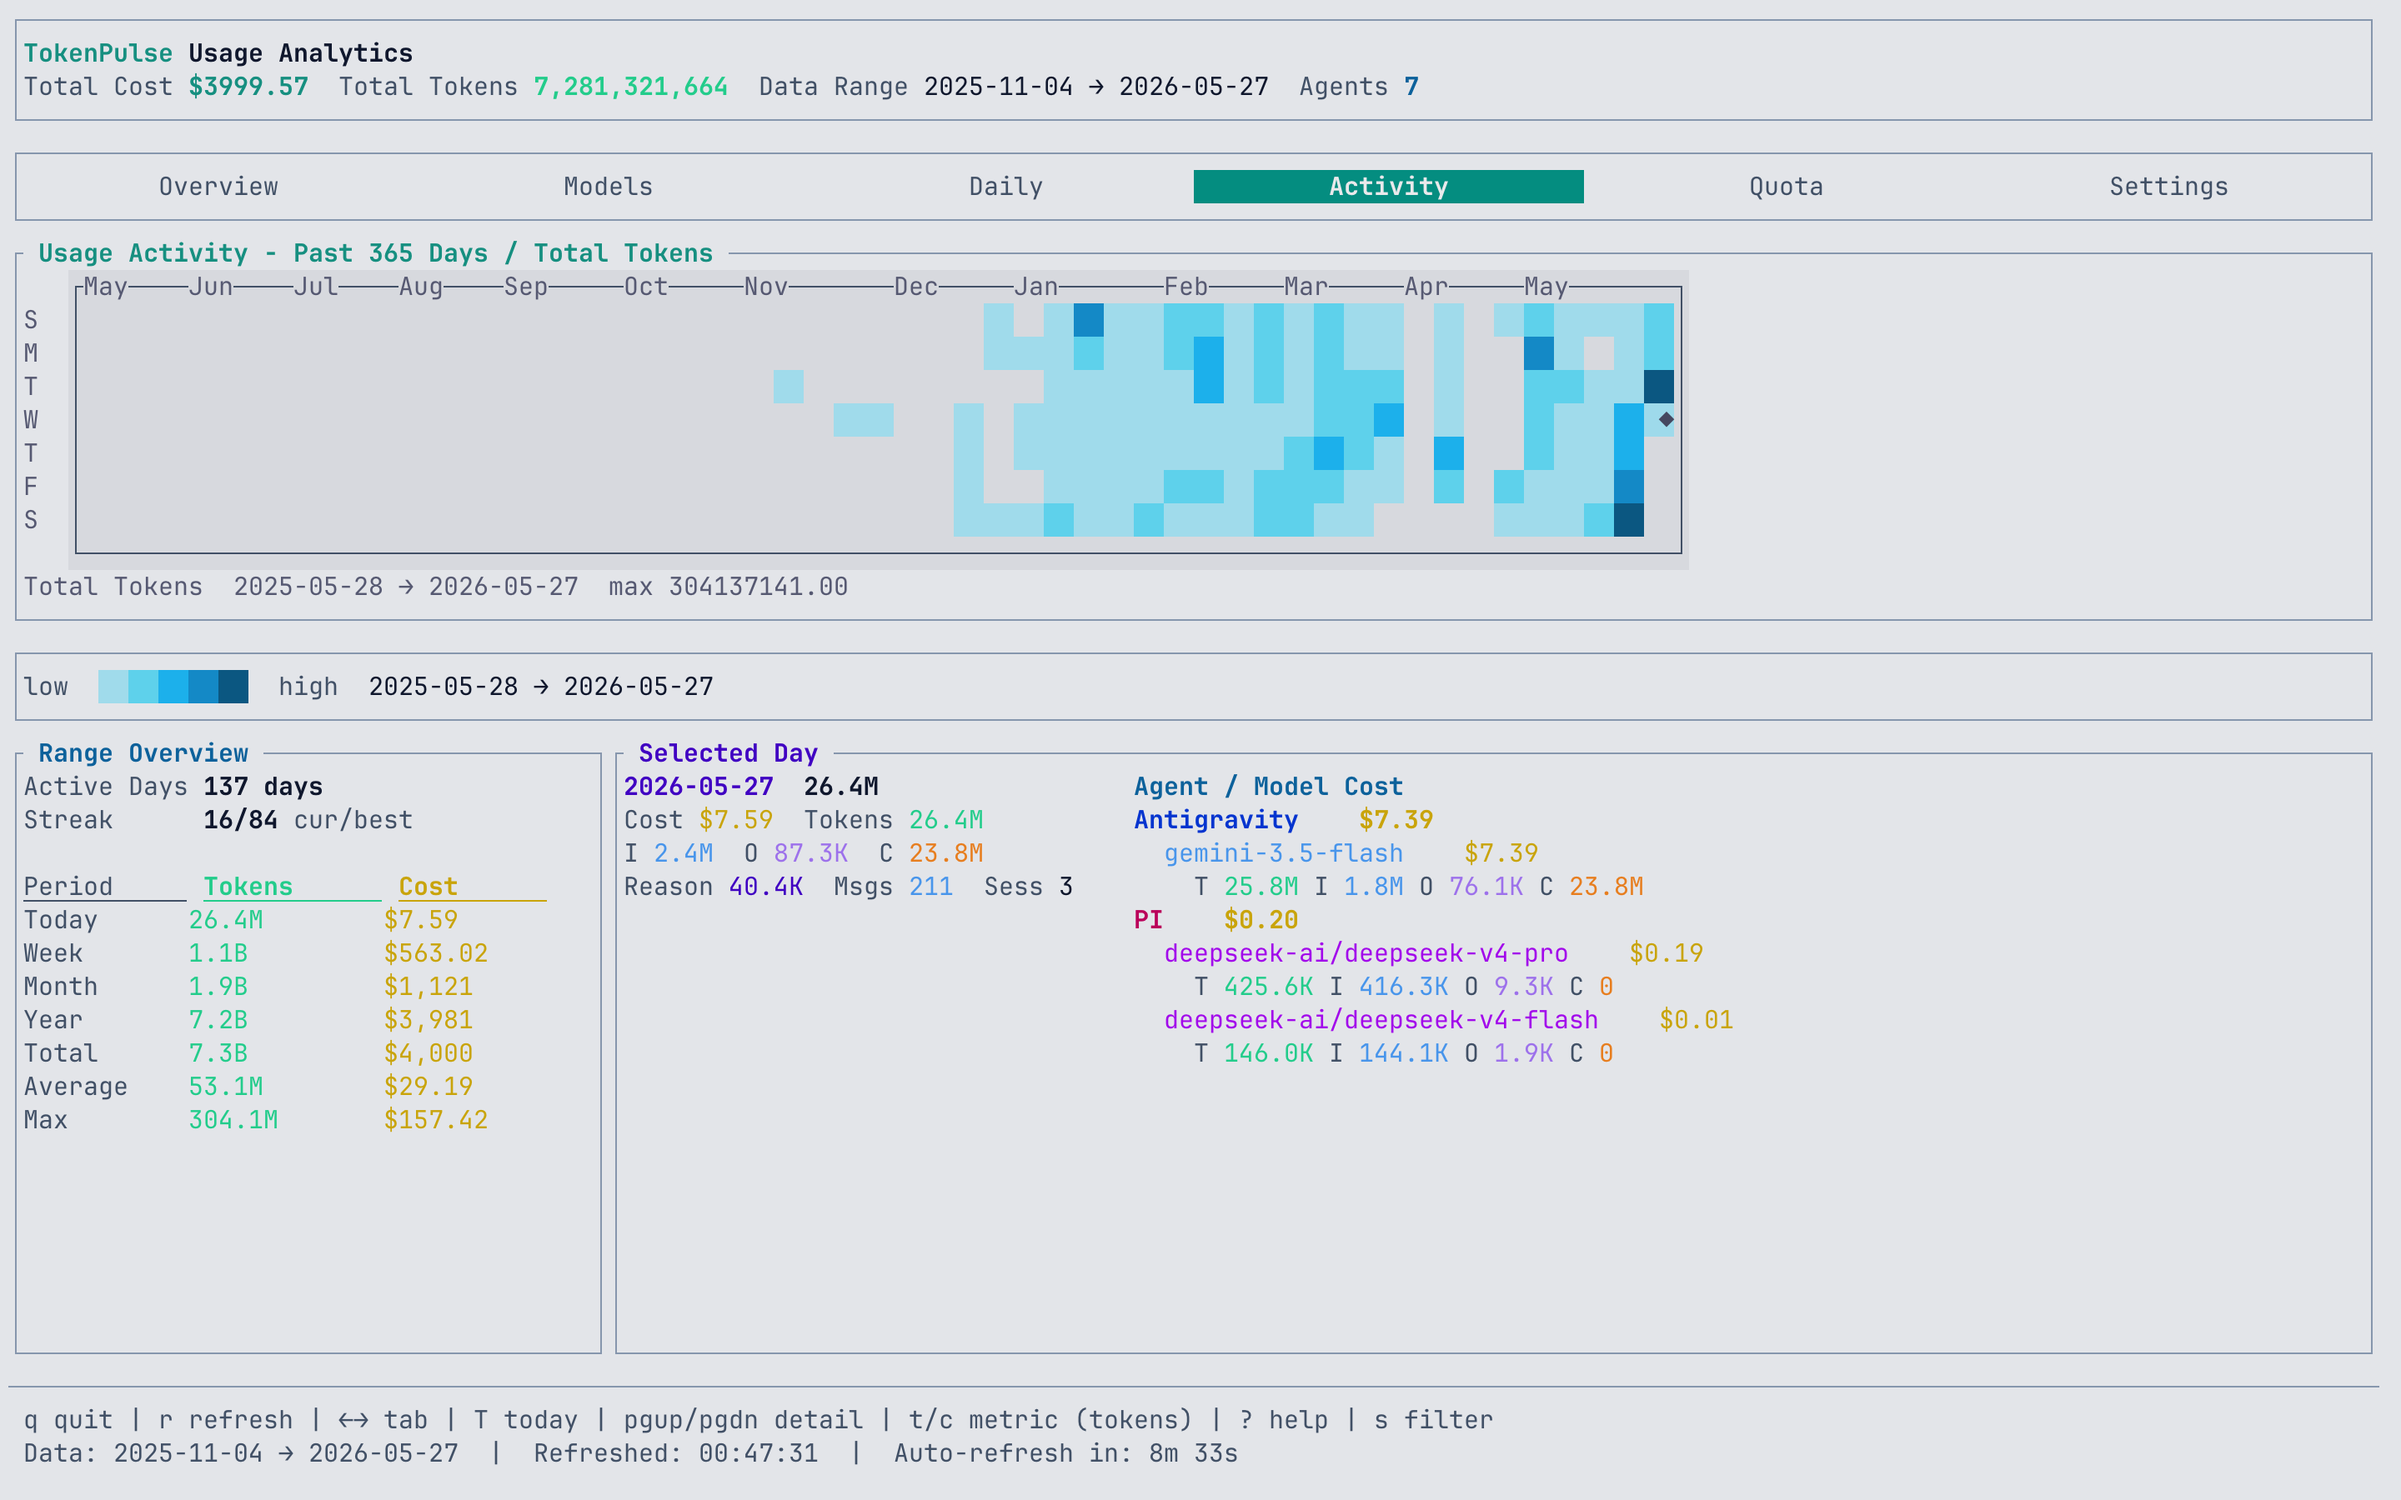
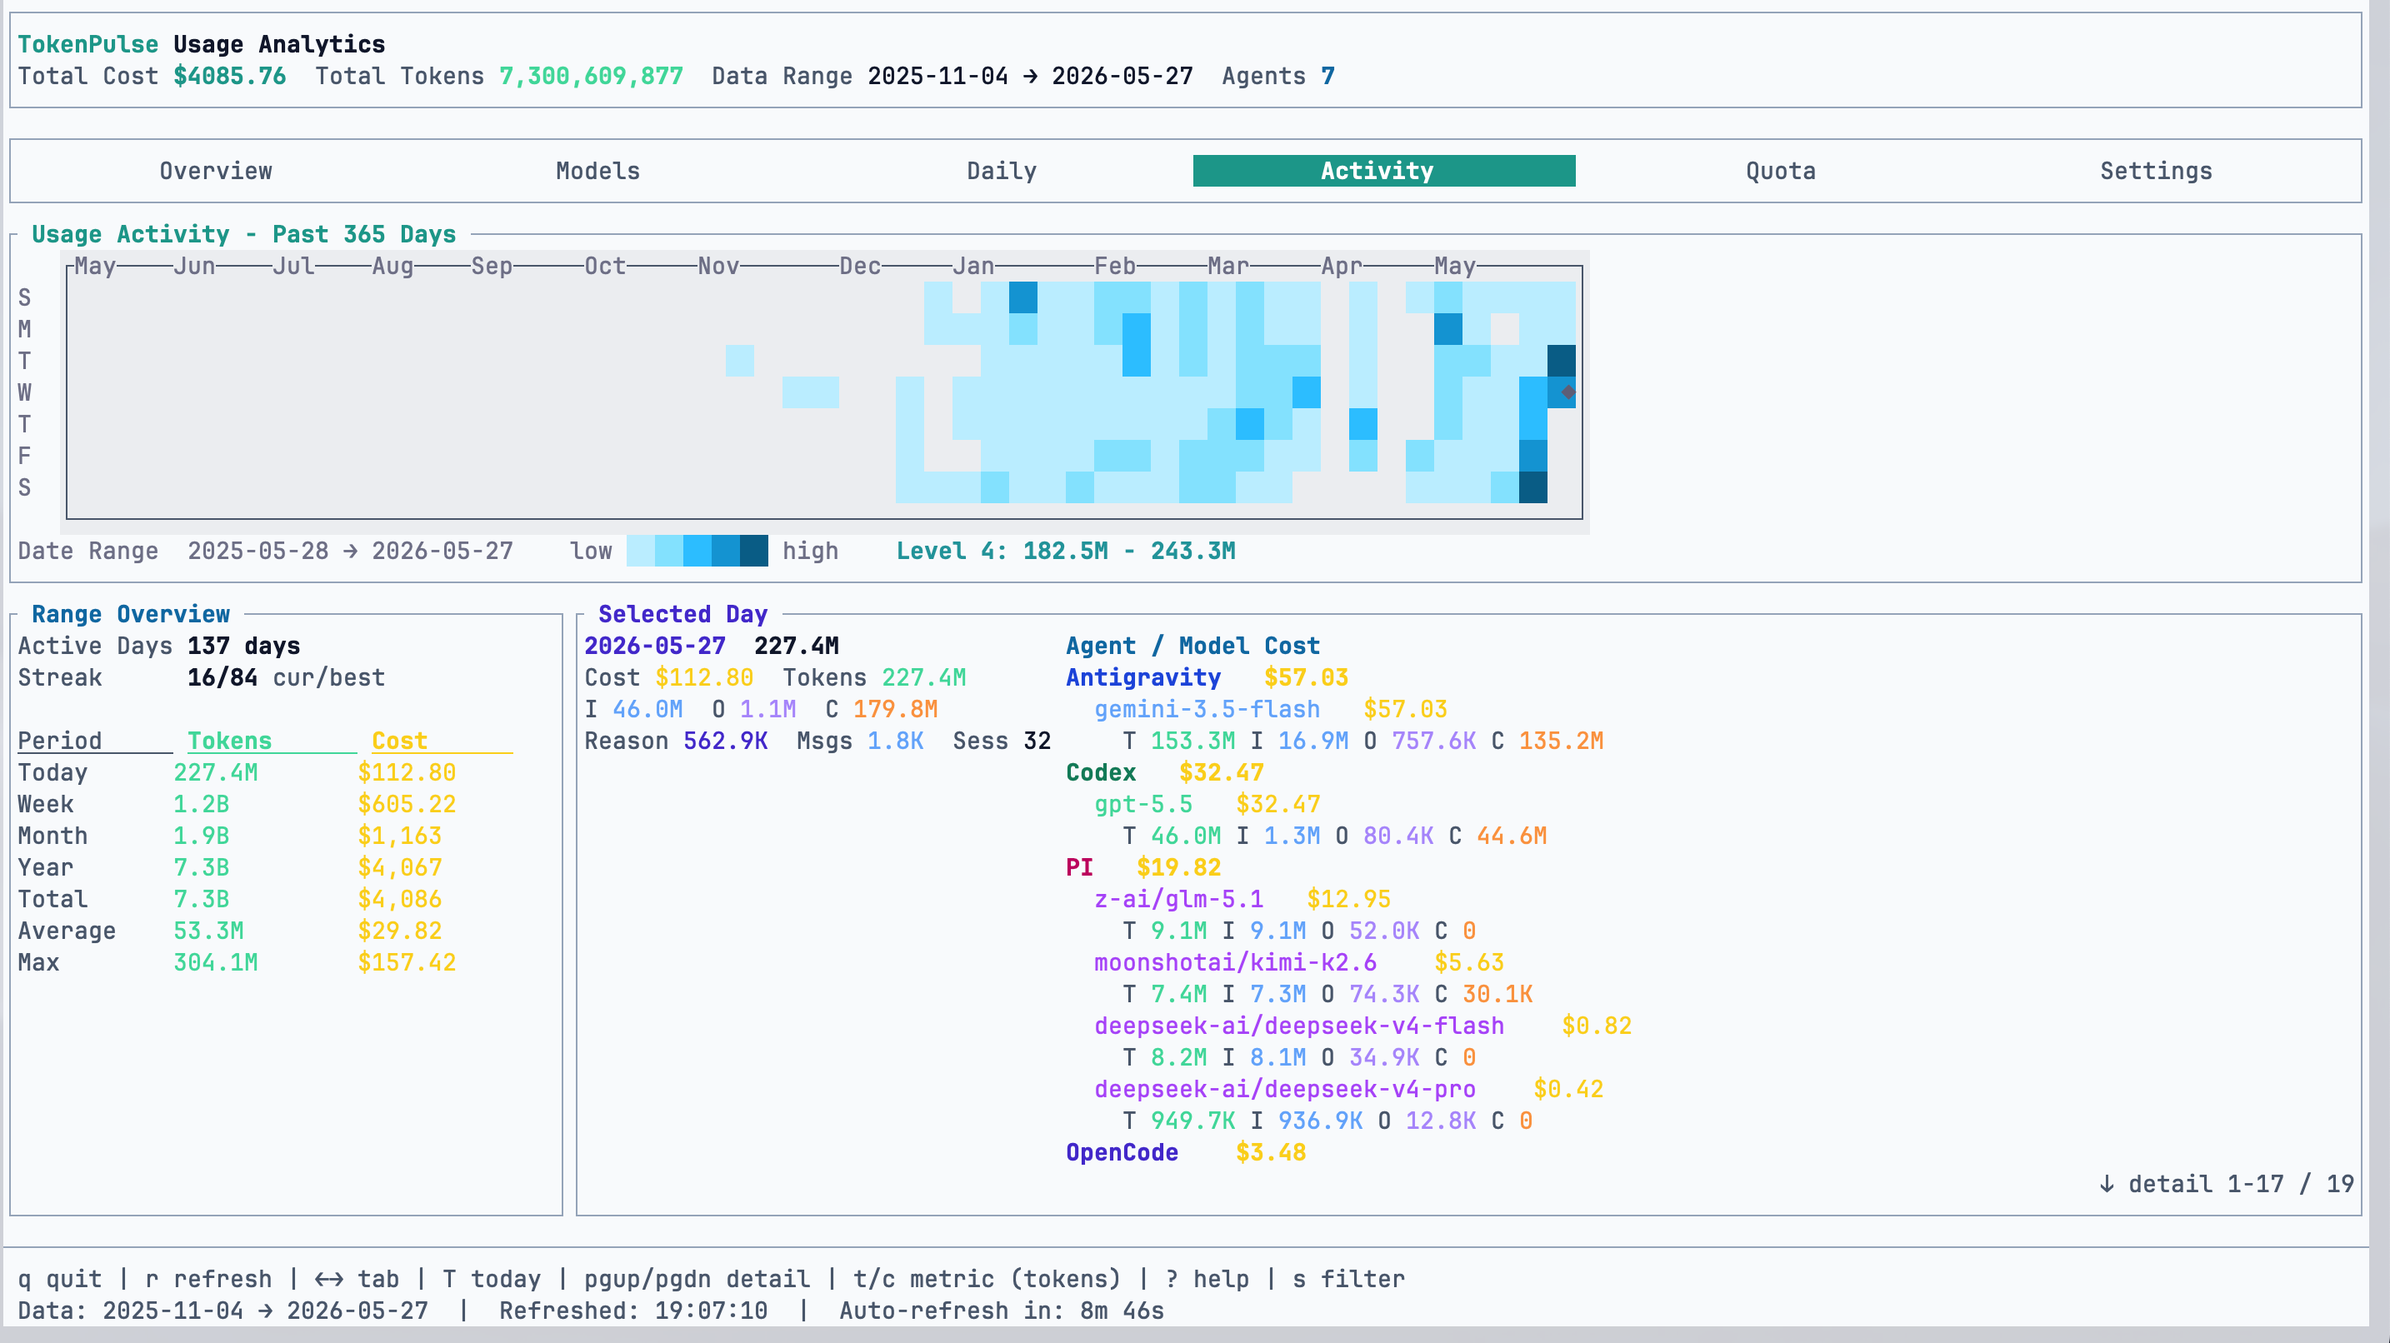
refactor(heatmap): inline legend into widget footer, remove separate legend section
- Merge the heatmap legend bar into the YearHeatmap widget's footer row
  instead of rendering it as a separate section (saves 3 rows of vertical space)
- Remove heatmap_legend_line(), heatmap_bucket_range_label(), and related
  layout helpers (legend_inner_area, blocks_start, bucket_width)
- Add selected_bucket field to YearHeatmap for inline bucket range display
- Remove heatmap_scale from public widgets API
- Update activity.png to match the new layout

diff --git a/tokenpulse-cli/src/tui/views/usage/heatmap.rs b/tokenpulse-cli/src/tui/views/usage/heatmap.rs
@@ -4,7 +4,7 @@ use super::{
 };
 use crate::tui::theme::Theme;
 use crate::tui::widgets::{
-    date_at_position, heatmap_scale, HeatmapMetric, HeatmapScale, YearHeatmap,
+    date_at_position, HeatmapMetric, YearHeatmap,
 };
 use chrono::{Datelike, Duration, Local, NaiveDate};
 use ratatui::{
@@ -15,10 +15,6 @@ use ratatui::{
 };
 use std::collections::BTreeSet;
 
-const HEATMAP_LEGEND_LOW_LABEL: &str = "low";
-const HEATMAP_LEGEND_HIGH_LABEL: &str = "high";
-const HEATMAP_LEGEND_GAP: &str = "  ";
-const HEATMAP_LEGEND_CELL: &str = "██";
 const HEATMAP_LEGEND_BUCKETS: usize = 5;
 
 pub fn render_heatmap_page(
@@ -35,10 +31,7 @@ pub fn render_heatmap_page(
     let sections = heatmap_sections(area);
 
     // Heatmap grid
-    let heat_title = format!(
-        " Usage Activity - Past 365 Days / {} ",
-        state.heatmap_metric.label()
-    );
+    let heat_title = " Usage Activity - Past 365 Days ";
     let heat_block = Block::default()
         .title(Span::styled(
             heat_title,
@@ -51,7 +44,6 @@ pub fn render_heatmap_page(
 
     let palette = heatmap_palette(theme, state.heatmap_metric);
     let points = dashboard.points_in_fixed_window(state.heatmap_metric, &state.enabled_sources);
-    let scale = heatmap_scale(&points, heat_inner, bounds);
     if points.is_empty() {
         f.render_widget(
             Paragraph::new(empty_data_message(state, "No activity data"))
@@ -65,31 +57,13 @@ pub fn render_heatmap_page(
             .background(theme.heatmap_bg)
             .border(Some(theme.heatmap_border))
             .selected(selected_day.as_ref().map(|day| day.date))
+            .selected_bucket(state.selected_heatmap_legend_bucket)
             .range_opt(bounds);
         f.render_widget(heatmap, heat_inner);
     }
 
-    // Legend bar
-    let range_label = bounds
-        .map(|(s, e)| format!("{} → {}", s.format("%Y-%m-%d"), e.format("%Y-%m-%d")))
-        .unwrap_or_else(|| "no range".to_string());
-    let legend = Paragraph::new(heatmap_legend_line(
-        palette,
-        theme,
-        range_label,
-        state.heatmap_metric,
-        scale,
-        state.selected_heatmap_legend_bucket,
-    ))
-    .block(
-        Block::default()
-            .borders(Borders::ALL)
-            .border_style(Style::default().fg(theme.border)),
-    );
-    f.render_widget(legend, sections[1]);
-
     // Bottom panels: range summary and selected day detail
-    let info = heatmap_info_sections(sections[2]);
+    let info = heatmap_info_sections(sections[1]);
 
     render_heatmap_summary_card(f, info[0], dashboard, &state.enabled_sources, theme);
     render_heatmap_day_detail(
@@ -107,7 +81,6 @@ pub fn heatmap_sections(area: Rect) -> std::rc::Rc<[Rect]> {
         .direction(Direction::Vertical)
         .constraints([
             Constraint::Length(12),
-            Constraint::Length(3),
             Constraint::Min(10),
         ])
         .split(area)
@@ -132,27 +105,20 @@ pub fn heatmap_grid_area(area: Rect) -> Rect {
     Block::default().borders(Borders::ALL).inner(sections[0])
 }
 
-pub fn heatmap_legend_inner_area(area: Rect) -> Rect {
+pub fn heatmap_legend_bucket_at_position(
+    area: Rect,
+    column: u16,
+    row: u16,
+) -> Option<usize> {
     let sections = heatmap_sections(area);
-    Block::default().borders(Borders::ALL).inner(sections[1])
-}
-
-pub fn heatmap_legend_blocks_start(inner: Rect) -> u16 {
-    inner.x + 3 + 2 // width of "low" label is 3, gap is 2
-}
-
-pub fn heatmap_legend_bucket_width() -> u16 {
-    2 // width of "██" is 2
-}
-
-pub fn heatmap_legend_bucket_at_position(area: Rect, column: u16, row: u16) -> Option<usize> {
-    let inner = heatmap_legend_inner_area(area);
-    if row != inner.y {
+    let heat_inner = Block::default().borders(Borders::ALL).inner(sections[0]);
+    let footer_y = heat_inner.y + heat_inner.height.saturating_sub(1);
+    if row != footer_y {
         return None;
     }
 
-    let bucket_width = heatmap_legend_bucket_width();
-    let blocks_start = heatmap_legend_blocks_start(inner);
+    let blocks_start = heat_inner.x + 43;
+    let bucket_width = 2; // width of "██" is 2
     let blocks_width = HEATMAP_LEGEND_BUCKETS as u16 * bucket_width;
     if column < blocks_start || column >= blocks_start + blocks_width {
         return None;
@@ -163,7 +129,7 @@ pub fn heatmap_legend_bucket_at_position(area: Rect, column: u16, row: u16) -> O
 
 pub fn heatmap_day_panel_area(area: Rect) -> Rect {
     let sections = heatmap_sections(area);
-    let info = heatmap_info_sections(sections[2]);
+    let info = heatmap_info_sections(sections[1]);
     info[1]
 }
 
@@ -202,69 +168,6 @@ pub fn heatmap_date_at_position(
     let grid_area = heatmap_grid_area(body);
     let bounds = dashboard.bounds_for_fixed_window();
     date_at_position(grid_area, bounds, column, row)
-}
-
-fn heatmap_legend_line(
-    palette: [Color; 5],
-    theme: &Theme,
-    range_label: String,
-    metric: HeatmapMetric,
-    scale: Option<HeatmapScale>,
-    selected_bucket: Option<usize>,
-) -> Line<'static> {
-    let mut legend_spans = vec![Span::styled(
-        HEATMAP_LEGEND_LOW_LABEL,
-        Style::default().fg(theme.dim),
-    )];
-    legend_spans.push(Span::raw(HEATMAP_LEGEND_GAP));
-    for color in palette {
-        legend_spans.push(Span::styled(
-            HEATMAP_LEGEND_CELL,
-            Style::default().fg(color),
-        ));
-    }
-    legend_spans.push(Span::raw(HEATMAP_LEGEND_GAP));
-    legend_spans.push(Span::styled(
-        HEATMAP_LEGEND_HIGH_LABEL,
-        Style::default().fg(theme.dim),
-    ));
-    if let Some(label) = heatmap_bucket_range_label(metric, scale, selected_bucket) {
-        legend_spans.push(Span::raw(HEATMAP_LEGEND_GAP));
-        legend_spans.push(Span::styled(
-            label,
-            Style::default().fg(theme.accent).bold(),
-        ));
-    }
-    legend_spans.push(Span::raw(HEATMAP_LEGEND_GAP));
-    legend_spans.push(Span::styled(range_label, Style::default().fg(theme.fg)));
-    Line::from(legend_spans)
-}
-
-fn heatmap_bucket_range_label(
-    metric: HeatmapMetric,
-    scale: Option<HeatmapScale>,
-    selected_bucket: Option<usize>,
-) -> Option<String> {
-    let bucket = selected_bucket?;
-    let (low, high) = scale?.bucket_range(bucket)?;
-    let unit = match metric {
-        HeatmapMetric::TotalTokens => " tokens",
-        HeatmapMetric::Cost => "",
-    };
-    Some(format!(
-        "Level {}: {} - {}{}",
-        bucket + 1,
-        format_metric(metric, low),
-        format_metric(metric, high),
-        unit
-    ))
-}
-
-fn format_metric(metric: HeatmapMetric, value: f64) -> String {
-    match metric {
-        HeatmapMetric::Cost => format_cost_compact(value),
-        HeatmapMetric::TotalTokens => format_compact(value.round() as i64),
-    }
 }
 
 fn render_heatmap_summary_card(
@@ -736,4 +639,11 @@ pub fn heatmap_detail_scroll_max(
     let total_lines = heatmap_day_panel_line_count(selected_day.as_ref());
     let visible_lines = selected_day_detail_body_visible_rows(detail_area, total_lines);
     total_lines.saturating_sub(visible_lines)
+}
+
+fn format_metric(metric: HeatmapMetric, value: f64) -> String {
+    match metric {
+        HeatmapMetric::Cost => format_cost_compact(value),
+        HeatmapMetric::TotalTokens => format_compact(value.round() as i64),
+    }
 }

diff --git a/tokenpulse-cli/src/tui/widgets/heatmap.rs b/tokenpulse-cli/src/tui/widgets/heatmap.rs
@@ -2,10 +2,11 @@ use chrono::{Datelike, Duration, Local, NaiveDate, Weekday};
 use ratatui::{
     buffer::Buffer,
     layout::Rect,
-    style::{Color, Style},
+    style::{Color, Style, Stylize},
     widgets::{Block, Borders, Widget},
 };
 use std::collections::BTreeMap;
+use crate::tui::views::usage::{format_compact, format_cost_compact};
 
 #[derive(Debug, Clone, Copy, PartialEq, Eq)]
 pub enum HeatmapMetric {
@@ -14,6 +15,7 @@ pub enum HeatmapMetric {
 }
 
 impl HeatmapMetric {
+    #[allow(dead_code)]
     pub fn label(self) -> &'static str {
         match self {
             HeatmapMetric::TotalTokens => "Total Tokens",
@@ -73,6 +75,7 @@ pub struct YearHeatmap<'a> {
     selected: Option<NaiveDate>,
     range: Option<(NaiveDate, NaiveDate)>,
     selected_color: Color,
+    selected_bucket: Option<usize>,
 }
 
 impl<'a> YearHeatmap<'a> {
@@ -93,6 +96,7 @@ impl<'a> YearHeatmap<'a> {
             selected: None,
             range: None,
             selected_color: Color::White,
+            selected_bucket: None,
         }
     }
 
@@ -123,6 +127,11 @@ impl<'a> YearHeatmap<'a> {
 
     pub fn range_opt(mut self, range: Option<(NaiveDate, NaiveDate)>) -> Self {
         self.range = range;
+        self
+    }
+
+    pub fn selected_bucket(mut self, bucket: Option<usize>) -> Self {
+        self.selected_bucket = bucket;
         self
     }
 
@@ -288,6 +297,7 @@ fn cell_values_for_layout(
     cell_values
 }
 
+#[allow(dead_code)]
 pub fn heatmap_scale(
     points: &[(NaiveDate, f64)],
     area: Rect,
@@ -514,22 +524,58 @@ impl<'a> Widget for YearHeatmap<'a> {
         let visible_start = (start + Duration::days((first_week_idx * 7) as i64)).max(window_start);
         let visible_end =
             (start + Duration::days(((first_week_idx + display_cols) * 7 - 1) as i64)).min(end);
-        let metric_text = format!(
-            "{}  {} → {}  max {:.2}",
-            self.metric.label(),
-            visible_start.format("%Y-%m-%d"),
-            visible_end.format("%Y-%m-%d"),
-            scale.max_value
-        );
+        
         let footer_y = area.y + area.height.saturating_sub(1);
         if footer_y > area.y + 7 {
-            buf.set_string(
-                area.x,
-                footer_y,
-                metric_text,
-                Style::default().fg(Color::DarkGray),
+            let mut x = area.x;
+            
+            // 1. Metric + Date Range
+            let date_range_text = format!(
+                "Date Range  {} → {}    ",
+                visible_start.format("%Y-%m-%d"),
+                visible_end.format("%Y-%m-%d")
             );
+            buf.set_string(x, footer_y, &date_range_text, Style::default().fg(Color::DarkGray));
+            x += date_range_text.chars().count() as u16;
+            
+            // 2. Legend Label "low"
+            buf.set_string(x, footer_y, "low", Style::default().fg(Color::DarkGray));
+            x += 3;
+            buf.set_string(x, footer_y, " ", Style::default());
+            x += 1;
+            
+            // 3. Colors
+            for color in self.palette {
+                buf.set_string(x, footer_y, "██", Style::default().fg(color));
+                x += 2;
+            }
+            
+            // 4. Legend Label "high"
+            buf.set_string(x, footer_y, " ", Style::default());
+            x += 1;
+            buf.set_string(x, footer_y, "high", Style::default().fg(Color::DarkGray));
+            x += 4;
+            
+            // 5. If a bucket is selected and we can compute bucket range description:
+            if let Some(bucket) = self.selected_bucket {
+                if let Some((low, high)) = scale.bucket_range(bucket) {
+                    let label = format!(
+                        "    Level {}: {} - {}",
+                        bucket + 1,
+                        format_metric(self.metric, low),
+                        format_metric(self.metric, high)
+                    );
+                    buf.set_string(x, footer_y, &label, Style::default().fg(Color::Cyan).bold());
+                }
+            }
         }
+    }
+}
+
+fn format_metric(metric: HeatmapMetric, value: f64) -> String {
+    match metric {
+        HeatmapMetric::Cost => format_cost_compact(value),
+        HeatmapMetric::TotalTokens => format_compact(value.round() as i64),
     }
 }
 

diff --git a/tokenpulse-cli/src/tui/widgets/mod.rs b/tokenpulse-cli/src/tui/widgets/mod.rs
@@ -4,4 +4,4 @@ pub mod heatmap;
 
 pub use barchart::{StackedBarChart, ValueFormat};
 pub use gauge::GradientGauge;
-pub use heatmap::{date_at_position, heatmap_scale, HeatmapMetric, HeatmapScale, YearHeatmap};
+pub use heatmap::{date_at_position, HeatmapMetric, YearHeatmap};
